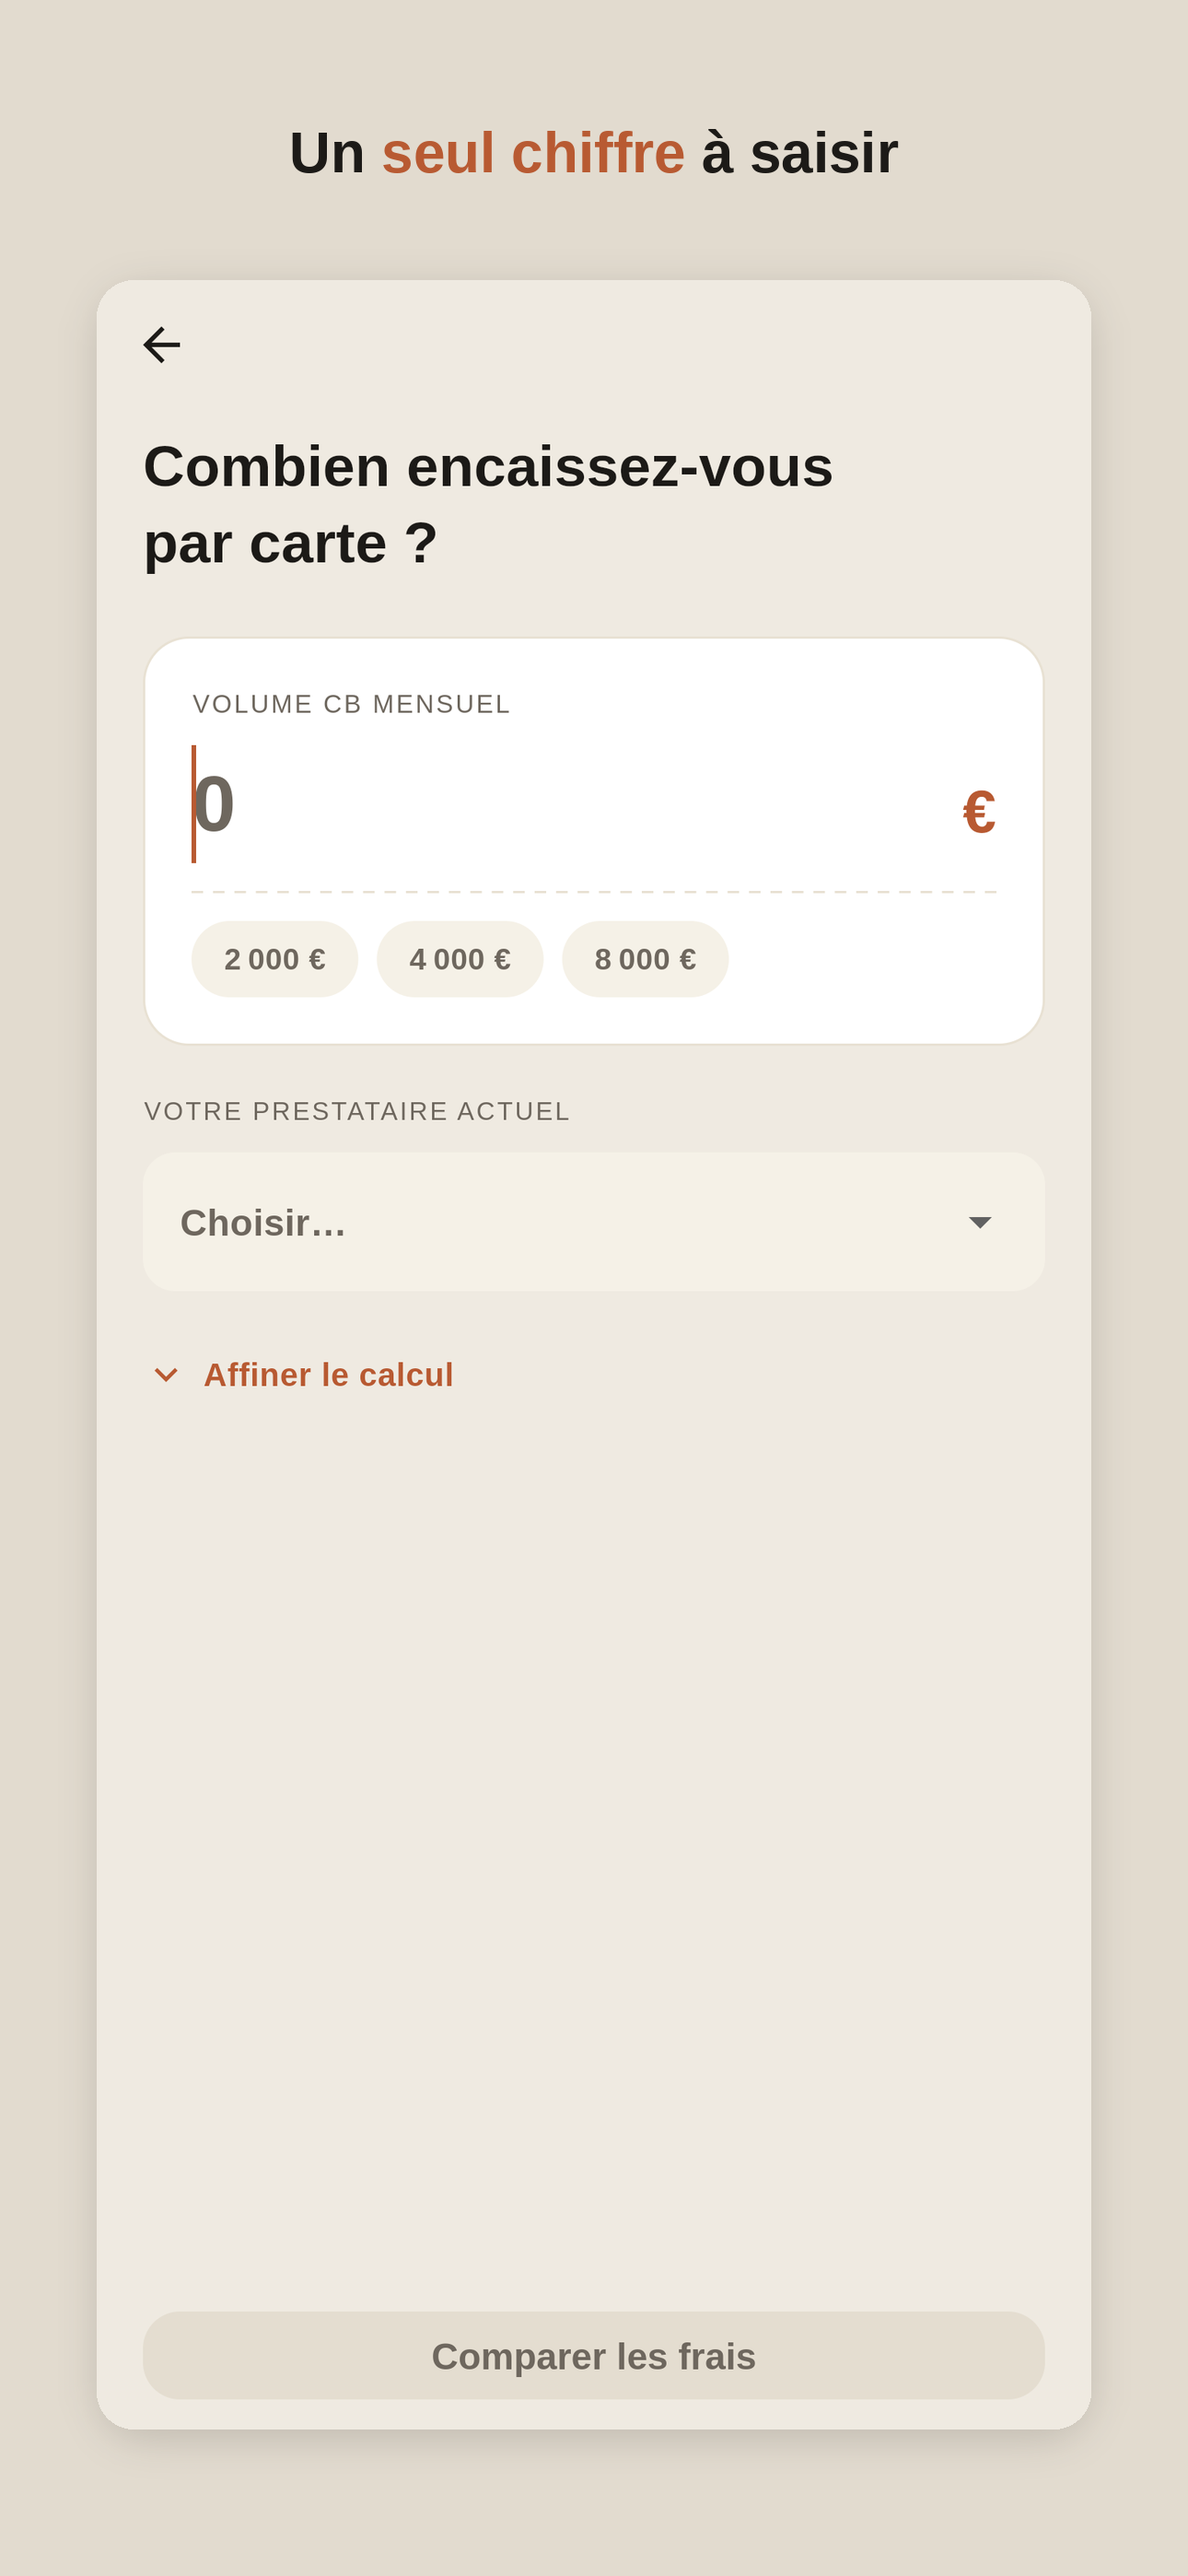
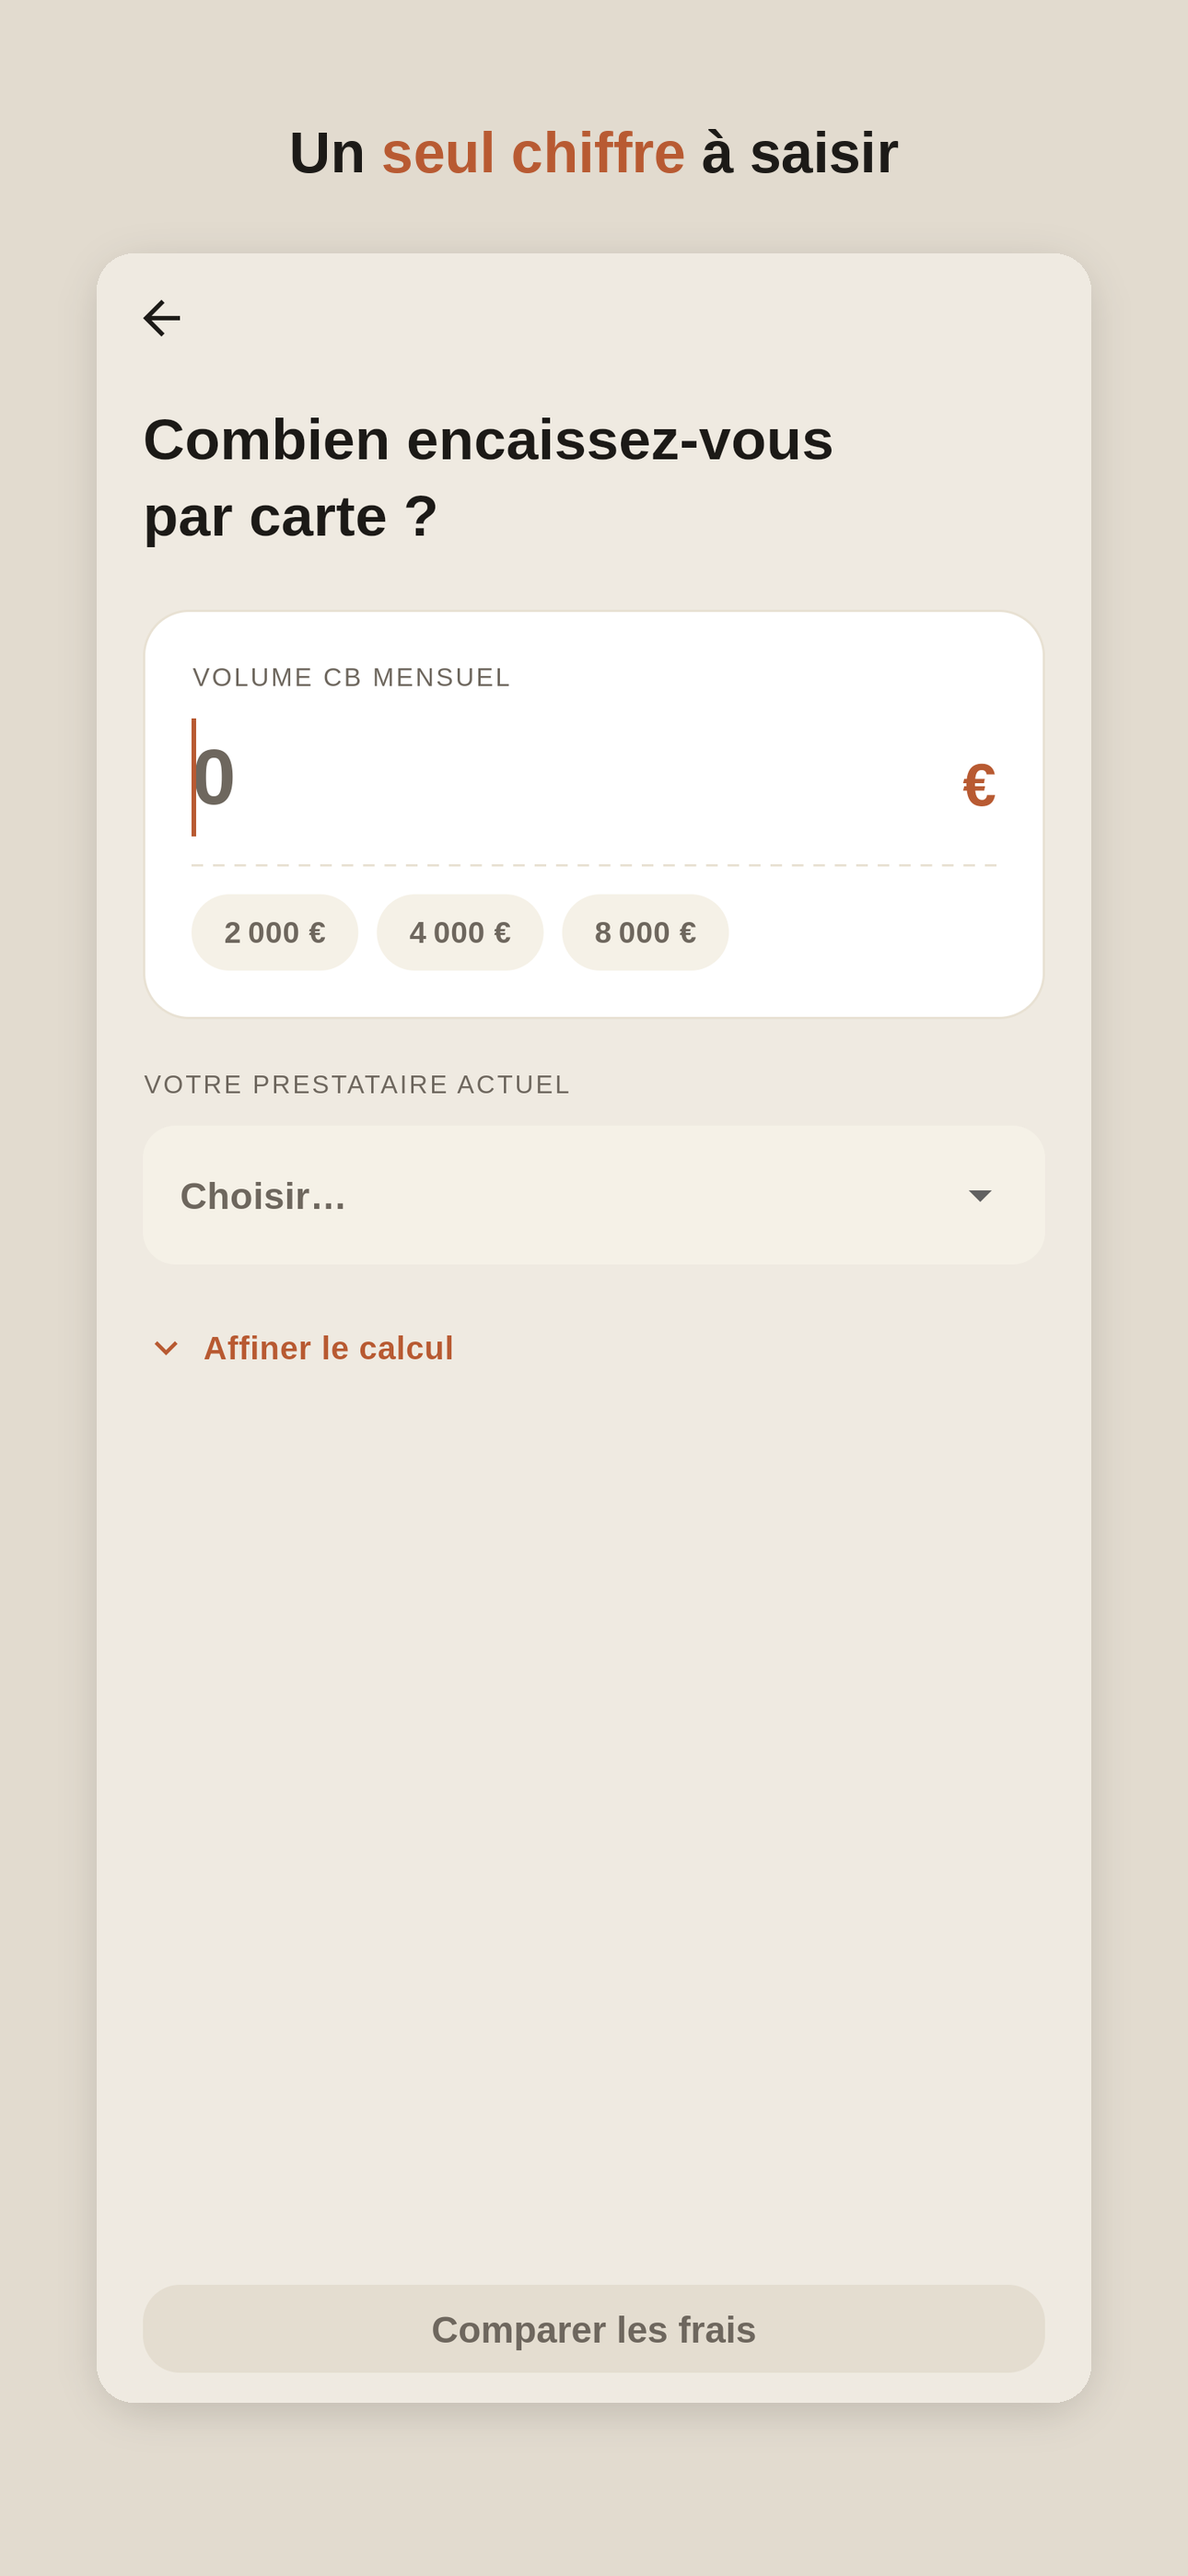
Ajouter une série de captures au format Google Play
Play refuse une capture dont le grand côté dépasse le double du petit, et
2796 / 1290 vaut 2,17 : la série destinée à l'App Store n'y est pas
importable. Une seconde série en 1080 x 1920 est produite dans
store/captures-play/, même scénario, mêmes six écrans, seul le cadrage
change.

Le composeur prend désormais le format en paramètre plutôt que des
constantes, marges et rayons compris, et la bannière rejoint le dossier
Play — elle n'existe que là.

Les rendus bruts n'ont pas été refaits : ils ne dépendent pas du format
de sortie et auraient été identiques.

Ajout de flutter_launcher_icons et de sa configuration, en attente du
logo. Les icônes des deux plateformes sont encore celles de Flutter par
défaut ; le fond des icônes adaptatives Android est fixé au terre cuite
de la charte, et le canal alpha est aplati pour iOS, qui refuse toute
transparence.

Claude-Session: https://claude.ai/code/session_01EfycyPonRUFN5V4fPXsG1T

diff --git a/tool/composer_captures.py b/tool/composer_captures.py
@@ -5,11 +5,20 @@ Chaque image reprend l'identité « Le Ticket » : fond papier, titre court
 en encre avec l'accent terre cuite sur le mot qui porte le message, et
 l'écran posé dessous sans cadre d'appareil.
 
+Deux formats, parce que les boutiques n'acceptent pas les mêmes :
+
+    apple  1290x2796  iPhone 6,9" — les autres tailles en sont dérivées
+    play   1080x1920  Play refuse au-delà d'un rapport de 2:1, et
+                      2796/1290 = 2,17 le dépasse
+
 Entrée  : les PNG produits par `tool/capturer_ecrans.py` (dossier brut/).
-Sortie  : store/captures/ aux formats attendus par les deux boutiques.
+Sortie  : store/captures/ pour Apple, store/captures-play/ pour Play.
+
+Usage :  python3 tool/composer_captures.py brut/ [apple|play|tous]
 """
 import pathlib
 import sys
+from dataclasses import dataclass
 
 from PIL import Image, ImageDraw, ImageFilter, ImageFont
 
@@ -24,11 +33,21 @@ FOND = (226, 219, 207)
 ENCRE = (28, 26, 23)
 TERRE = (184, 90, 50)
 
-# Format iPhone 6.9" — les autres tailles en sont dérivées par l'App Store.
-LARGEUR, HAUTEUR = 1290, 2796
-LARGEUR_ECRAN = 1080          # l'écran posé sur le fond
-MARGE_HAUT = 130
-TAILLE_TITRE = 62
+@dataclass(frozen=True)
+class Format:
+    nom: str
+    largeur: int
+    hauteur: int
+    largeur_ecran: int   # l'écran posé sur le fond
+    marge_haut: int
+    taille_titre: int
+    dossier: str
+
+
+FORMATS = {
+    "apple": Format("apple", 1290, 2796, 1080, 130, 62, "captures"),
+    "play": Format("play", 1080, 1920, 760, 90, 46, "captures-play"),
+}
 
 # Le mot entre crochets passe en terre cuite : c'est lui qui porte le message.
 CAPTURES = [
@@ -53,12 +72,12 @@ def morceaux(titre):
     return sortie
 
 
-def dessiner_titre(img, titre, police):
+def dessiner_titre(img, titre, police, fmt):
     """Titre centré, au plus deux lignes, l'accent en terre cuite."""
     d = ImageDraw.Draw(img)
     mots = morceaux(titre)
     espace = d.textlength(" ", font=police)
-    maxi = LARGEUR - 2 * 90
+    maxi = fmt.largeur - 2 * round(fmt.largeur * 0.07)
 
     lignes, courante, largeur = [], [], 0
     for mot, accent in mots:
@@ -71,11 +90,11 @@ def dessiner_titre(img, titre, police):
     if courante:
         lignes.append(courante)
 
-    y = MARGE_HAUT
-    hauteur_ligne = int(TAILLE_TITRE * 1.22)
+    y = fmt.marge_haut
+    hauteur_ligne = int(fmt.taille_titre * 1.22)
     for ligne in lignes:
         total = sum(w for _, _, w in ligne) + espace * (len(ligne) - 1)
-        x = (LARGEUR - total) / 2
+        x = (fmt.largeur - total) / 2
         for mot, accent, w in ligne:
             d.text((x, y), mot, font=police, fill=TERRE if accent else ENCRE)
             x += w + espace
@@ -122,7 +141,7 @@ def poser(fond, ecran, y):
     """Pose l'écran avec une ombre douce — pas de cadre d'appareil."""
     ombre = Image.new("RGBA", fond.size, (0, 0, 0, 0))
     d = ImageDraw.Draw(ombre)
-    x = (LARGEUR - ecran.size[0]) // 2
+    x = (fond.size[0] - ecran.size[0]) // 2
     d.rounded_rectangle(
         [x + 6, y + 14, x + ecran.size[0] - 6, y + ecran.size[1] + 6],
         44, fill=(28, 26, 23, 46))
@@ -131,43 +150,50 @@ def poser(fond, ecran, y):
     fond.alpha_composite(ecran, (x, y))
 
 
-def composer(brut, sortie):
-    police = ImageFont.truetype(str(POLICE_GRASSE), TAILLE_TITRE)
+def composer(brut, fmt):
+    sortie = RACINE / "store" / fmt.dossier
+    police = ImageFont.truetype(str(POLICE_GRASSE), fmt.taille_titre)
     sortie.mkdir(parents=True, exist_ok=True)
+    rayon = round(fmt.largeur * 0.031)
 
     for nom, fichier, titre in CAPTURES:
         source = brut / fichier
         if not source.exists():
             print(f"  absent, ignoré : {fichier}", file=sys.stderr)
             continue
-        fond = Image.new("RGBA", (LARGEUR, HAUTEUR), FOND + (255,))
-        bas_titre = dessiner_titre(fond, titre, police)
+        fond = Image.new("RGBA", (fmt.largeur, fmt.hauteur), FOND + (255,))
+        bas_titre = dessiner_titre(fond, titre, police, fmt)
 
         ecran = rogner_le_vide(Image.open(source).convert("RGBA"))
-        largeur = LARGEUR_ECRAN
+        largeur = fmt.largeur_ecran
         hauteur = round(ecran.size[1] * largeur / ecran.size[0])
-        dispo = HAUTEUR - bas_titre - 150
+        marge_basse = round(fmt.hauteur * 0.054)
+        dispo = fmt.hauteur - bas_titre - marge_basse
         if hauteur > dispo:                     # jamais rogné, seulement réduit
             hauteur = dispo
             largeur = round(ecran.size[0] * hauteur / ecran.size[1])
         ecran = coins_arrondis(
-            ecran.resize((largeur, hauteur), Image.LANCZOS), 40)
+            ecran.resize((largeur, hauteur), Image.LANCZOS), rayon)
 
         # Centré dans l'espace restant, mais jamais très loin du titre :
         # une capture courte flottait au milieu de l'image.
-        y = bas_titre + min(150, max(70, (HAUTEUR - bas_titre - hauteur - 60) // 2))
+        ecart = (fmt.hauteur - bas_titre - hauteur - marge_basse) // 2
+        y = bas_titre + min(round(fmt.hauteur * 0.054),
+                            max(round(fmt.hauteur * 0.025), ecart))
         poser(fond, ecran, y)
         chemin = sortie / f"{nom}.png"
         fond.convert("RGB").save(chemin, quality=95)
-        print(f"  {chemin.name}  {fond.size[0]}x{fond.size[1]}")
+        print(f"  {fmt.dossier}/{chemin.name}  {fond.size[0]}x{fond.size[1]}")
 
 
-def banniere(brut, sortie):
+def banniere(brut):
+    sortie = RACINE / "store" / FORMATS["play"].dossier
     """Feature graphic Google Play — 1024 x 500, obligatoire.
 
     Rien d'écrit en bas : Play y superpose parfois le bouton d'installation.
     """
     L, H = 1024, 500
+    sortie.mkdir(parents=True, exist_ok=True)
     img = Image.new("RGBA", (L, H), FOND + (255,))
     d = ImageDraw.Draw(img)
 
@@ -189,15 +215,19 @@ def banniere(brut, sortie):
 
     chemin = sortie / "play-banniere.png"
     img.convert("RGB").save(chemin, quality=95)
-    print(f"  {chemin.name}  {L}x{H}")
+    print(f"  {FORMATS['play'].dossier}/{chemin.name}  {L}x{H}")
 
 
 def main():
     brut = pathlib.Path(sys.argv[1]) if len(sys.argv) > 1 else RACINE / "brut"
-    sortie = RACINE / "store" / "captures"
+    choix = sys.argv[2] if len(sys.argv) > 2 else "tous"
+    formats = FORMATS.values() if choix == "tous" else [FORMATS[choix]]
+
     print("Captures :")
-    composer(brut, sortie)
-    banniere(brut, sortie)
+    for fmt in formats:
+        composer(brut, fmt)
+    # La bannière n'existe que chez Play, et son format y est imposé.
+    banniere(brut)
 
 
 if __name__ == "__main__":

diff --git a/store/fiche-stores.md b/store/fiche-stores.md
@@ -176,7 +176,7 @@ Frais TPE est un outil indépendant. Nous ne sommes affiliés à aucun prestatai
 | Store | Ce qu'il faut fournir |
 |---|---|
 | App Store | iPhone 6.9″ (1290 × 2796) — obligatoire. Les autres tailles en sont dérivées automatiquement. iPad seulement si l'app y est publiée. |
-| Google Play | 2 minimum, 8 maximum. Portrait, 1080 × 1920 convient. Plus une **bannière 1024 × 500** (Feature graphic), obligatoire. |
+| Google Play | 2 minimum, 8 maximum. Portrait **1080 × 1920** : le rapport hauteur/largeur ne doit pas dépasser 2:1, ce qui exclut le format Apple. Plus une **bannière 1024 × 500** (Feature graphic), obligatoire. |
 
 **Parti pris visuel** — cohérent avec « Le Ticket + la jauge » :
 
@@ -259,8 +259,20 @@ python3 tool/capturer_ecrans.py brut/  # rendus 1290 x 2796
 python3 tool/composer_captures.py brut/
 ```
 
-Résultat dans `store/captures/`. Relancer la chaîne après une mise à jour
-des tarifs suffit à remettre les captures d'aplomb.
+Le troisième argument choisit le format : `apple`, `play`, ou `tous` par
+défaut.
+
+| Sortie | Format | Pour |
+|---|---|---|
+| `store/captures/` | 1290 × 2796 | App Store — les autres tailles en sont dérivées |
+| `store/captures-play/` | 1080 × 1920 | Google Play, plus la bannière 1024 × 500 |
+
+Deux séries et non une : Play refuse une capture dont le grand côté
+dépasse le double du petit, et 2796 / 1290 = 2,17. Le scénario, les
+titres et le contenu sont identiques ; seul le cadrage change.
+
+Relancer la chaîne après une mise à jour des tarifs suffit à remettre les
+captures d'aplomb.
 
 ### Bannière Google Play (1024 × 500)
 

diff --git a/assets/icone/LISEZMOI.md b/assets/icone/LISEZMOI.md
@@ -1,0 +1,18 @@
+# Sources des icônes
+
+| Fichier | Rôle | Contraintes |
+|---|---|---|
+| `logo.png` | iOS et Android hérité | 1024×1024, carré plein, **sans coins arrondis** ni transparence — les stores appliquent eux-mêmes le masque |
+| `logo-avant-plan.png` | Calque avant-plan des icônes adaptatives Android | 1024×1024, **fond transparent**, motif contenu dans le cercle central de 66 % — Android rogne le reste selon le masque du fabricant |
+
+Le fond des icônes adaptatives est la couleur terre cuite `#B85A32`,
+définie dans `flutter_launcher_icons.yaml` — pas une image.
+
+Régénérer après toute modification :
+
+```bash
+dart run flutter_launcher_icons
+```
+
+La commande réécrit `android/app/src/main/res/mipmap-*` et
+`ios/Runner/Assets.xcassets/AppIcon.appiconset`, qui sont versionnés.
